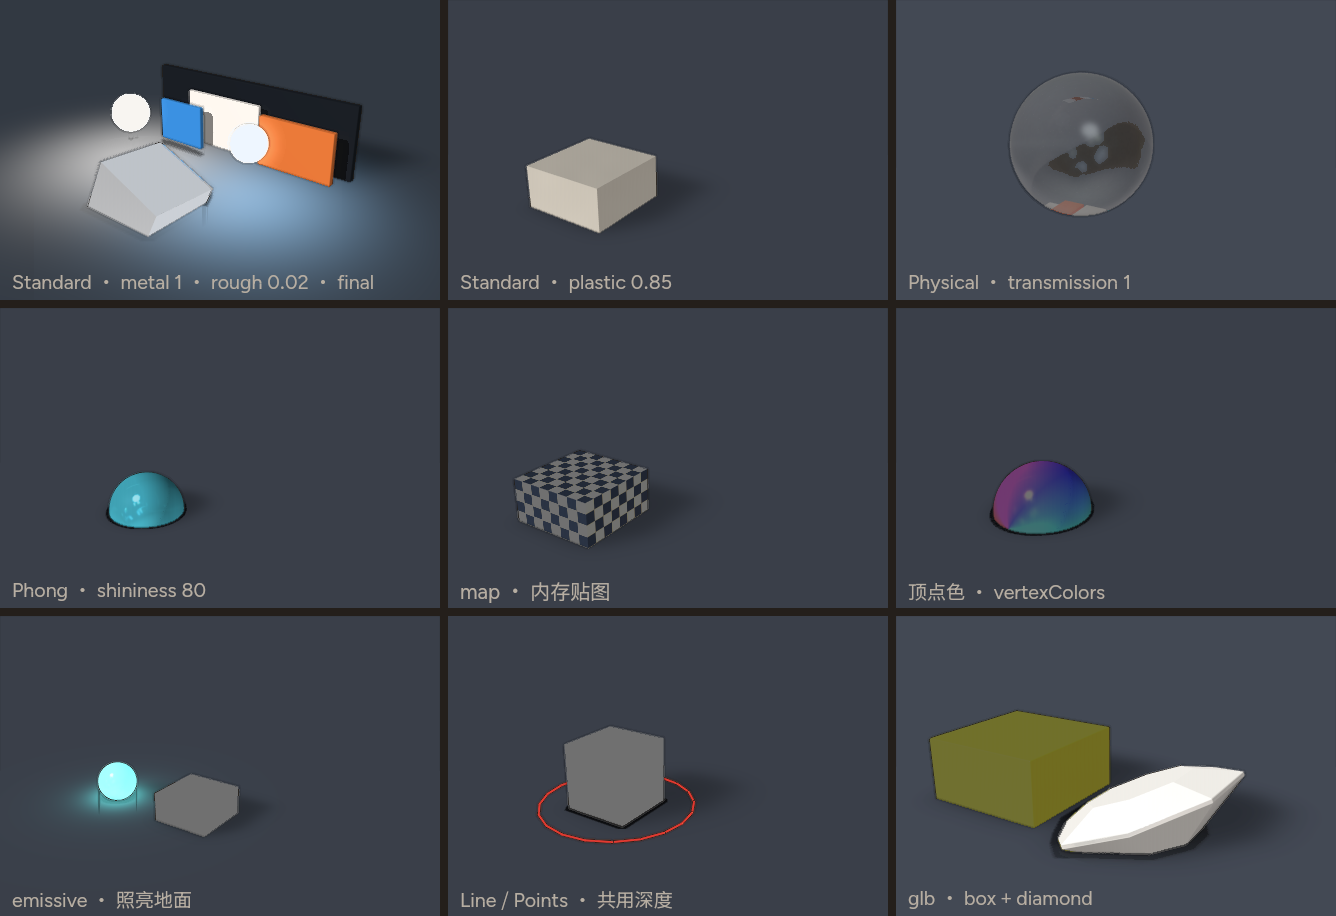
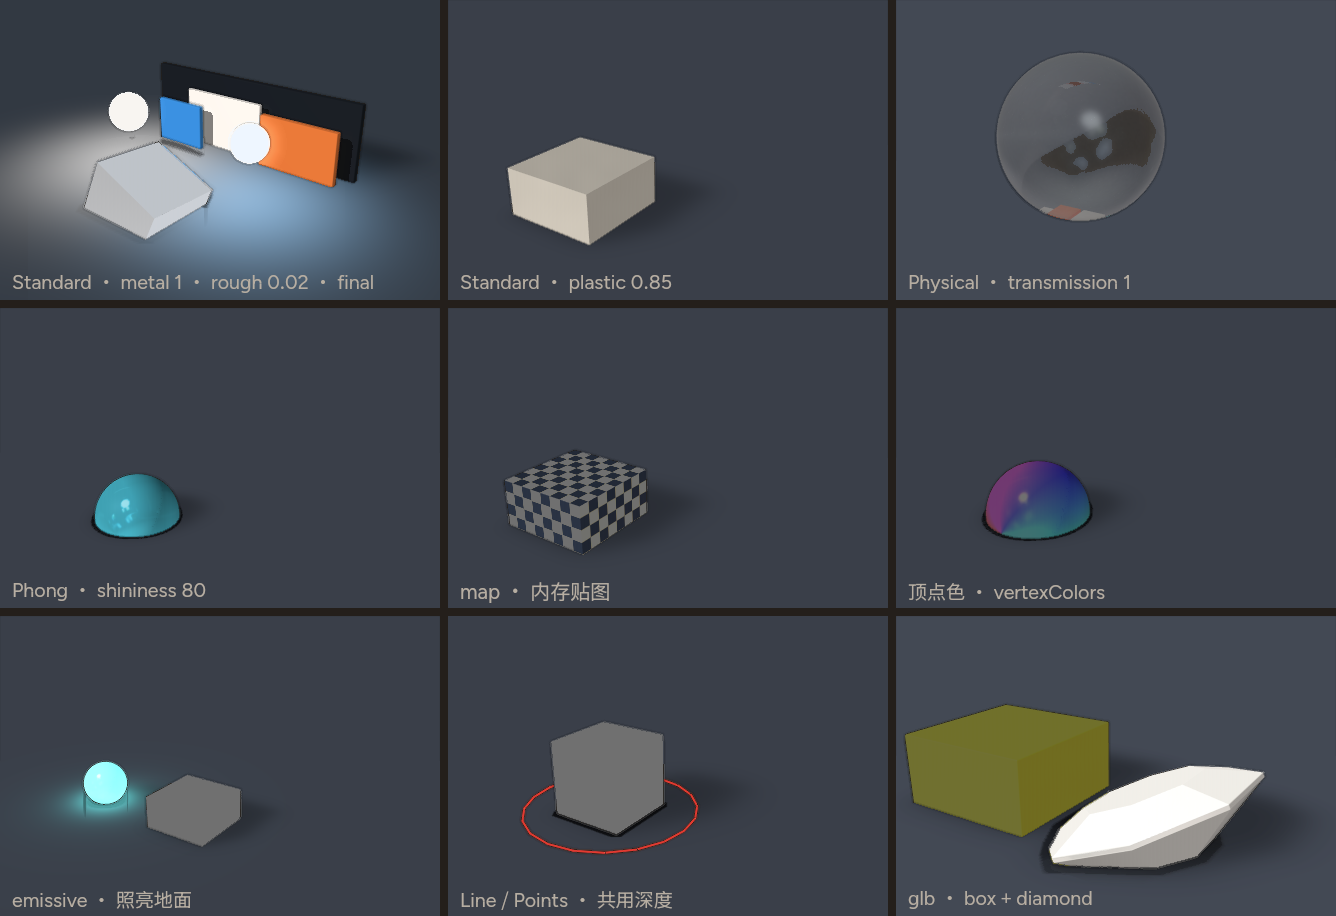
tip modelfill: closer model-cell cameras for A fill
Pull common cells to distance 780, enlarge physical-glass and glb.
Leave twosphere materials untouched (B materials 7).

diff --git a/docs/gallery/3d/model/physical-glass.tsx b/docs/gallery/3d/model/physical-glass.tsx
@@ -38,7 +38,7 @@ export default layer.create(
     <layer
       width={440}
       height={300}
-      camera="fov 30, orbit 28 18, distance 740, at 220 175 0"
+      camera="fov 30, orbit 28 18, distance 680, at 220 175 0"
       light="world"
       quality="final"
     >
@@ -50,7 +50,7 @@ export default layer.create(
         <model object={stripe('#d94a3a', -0.4)} unit={110} x={200} y={190} />
         <model object={stripe('#f4f0e8', -0.1)} unit={110} x={200} y={190} />
         <model object={stripe('#3a7ec8', 0.2)} unit={110} x={200} y={190} />
-        <model object={glass} unit={148} x={200} y={190} material="glass 0.08" />
+        <model object={glass} unit={158} x={200} y={190} material="glass 0.08" />
       </layer>
     </layer>
     <layer x={12} y={272}>

diff --git a/docs/gallery/3d/model/glb.tsx b/docs/gallery/3d/model/glb.tsx
@@ -14,7 +14,7 @@ import { layer } from 'flexlayer'
 export default layer.create(
   <layer width={440} height={300} background="#241f1b">
     {/* Metshine: yawback A called the diamond coarse — closer + larger diamond. */}
-    <layer width={440} height={300} camera="fov 30, orbit 32 20, distance 780, at 220 205 0" light="world">
+    <layer width={440} height={300} camera="fov 30, orbit 32 20, distance 700, at 220 205 0" light="world">
       <light type="hemisphere" intensity="0.4" color="#e8eef4" ground-color="#3a4048" />
       <light type="directional" intensity="0.7" color="#ffffff" x="-160" y="-380" z="480" target="0 0 0" />
       <ground y={220} rotateX={90} fill="#3a3f49" shadow-blur={48} shadow-opacity={0.28} />

diff --git a/docs/gallery/3d/model/map.tsx b/docs/gallery/3d/model/map.tsx
@@ -31,7 +31,7 @@ const mesh = new THREE.Mesh(
 
 export default layer.create(
   <layer width={440} height={300} background="#241f1b">
-    <layer width={440} height={300} camera="fov 32, orbit 34 22, distance 860, at 220 210 0">
+    <layer width={440} height={300} camera="fov 32, orbit 34 22, distance 820, at 220 210 0">
       <ground y={220} rotateX={90} fill="#3a3f49" shadow-blur={48} shadow-opacity={0.28} />
       <layer x={28} y={220} width={400} height={190} origin="200 0" rotateX={90} preserve-3d>
         <model object={mesh} unit={120} x={200} y={210} />

diff --git a/docs/gallery/3d/model/standard-rough.tsx b/docs/gallery/3d/model/standard-rough.tsx
@@ -11,7 +11,7 @@ const mesh = new THREE.Mesh(
 
 export default layer.create(
   <layer width={440} height={300} background="#241f1b">
-    <layer width={440} height={300} camera="fov 32, orbit 34 22, distance 860, at 220 210 0">
+    <layer width={440} height={300} camera="fov 32, orbit 34 22, distance 780, at 220 210 0">
       <ground y={220} rotateX={90} fill="#3a3f49" shadow-blur={48} shadow-opacity={0.28} />
       <layer x={28} y={220} width={400} height={190} origin="200 0" rotateX={90} preserve-3d>
         <model object={mesh} unit={120} x={200} y={190} />

diff --git a/docs/gallery/3d/model/vertex-colors.tsx b/docs/gallery/3d/model/vertex-colors.tsx
@@ -37,7 +37,7 @@ const mesh = new THREE.Mesh(
 
 export default layer.create(
   <layer width={440} height={300} background="#241f1b">
-    <layer width={440} height={300} camera="fov 32, orbit 34 22, distance 860, at 220 210 0">
+    <layer width={440} height={300} camera="fov 32, orbit 34 22, distance 820, at 220 210 0">
       <ground y={220} rotateX={90} fill="#3a3f49" shadow-blur={48} shadow-opacity={0.28} />
       <layer x={28} y={220} width={400} height={190} origin="200 0" rotateX={90} preserve-3d>
         <model object={mesh} unit={120} x={200} y={190} />

diff --git a/docs/gallery/3d/model/emissive.tsx b/docs/gallery/3d/model/emissive.tsx
@@ -32,7 +32,7 @@ box.position.set(0.7, 0.5, 0)
 
 export default layer.create(
   <layer width={440} height={300} background="#241f1b">
-    <layer width={440} height={300} camera="fov 32, orbit 34 22, distance 860, at 220 210 0">
+    <layer width={440} height={300} camera="fov 32, orbit 34 22, distance 780, at 220 210 0">
       <ground y={220} rotateX={90} fill="#3a3f49" shadow-blur={48} shadow-opacity={0.28} />
       <layer x={28} y={220} width={400} height={190} origin="200 0" rotateX={90} preserve-3d>
         <model object={box} unit={80} x={200} y={190} />

diff --git a/docs/gallery/3d/model/lines-points.tsx b/docs/gallery/3d/model/lines-points.tsx
@@ -52,7 +52,7 @@ group.add(box, ring, dots)
 
 export default layer.create(
   <layer width={440} height={300} background="#241f1b">
-    <layer width={440} height={300} camera="fov 32, orbit 34 22, distance 860, at 220 210 0">
+    <layer width={440} height={300} camera="fov 32, orbit 34 22, distance 780, at 220 210 0">
       <ground y={220} rotateX={90} fill="#3a3f49" shadow-blur={48} shadow-opacity={0.28} />
       <layer x={28} y={220} width={400} height={190} origin="200 0" rotateX={90} preserve-3d>
         <model object={group} unit={120} x={200} y={190} />

diff --git a/docs/gallery/3d/model/phong.tsx b/docs/gallery/3d/model/phong.tsx
@@ -12,7 +12,7 @@ const mesh = new THREE.Mesh(
 
 export default layer.create(
   <layer width={440} height={300} background="#241f1b">
-    <layer width={440} height={300} camera="fov 32, orbit 34 22, distance 860, at 220 210 0">
+    <layer width={440} height={300} camera="fov 32, orbit 34 22, distance 780, at 220 210 0">
       <ground y={220} rotateX={90} fill="#3a3f49" shadow-blur={48} shadow-opacity={0.28} />
       <layer x={28} y={220} width={400} height={190} origin="200 0" rotateX={90} preserve-3d>
         <model object={mesh} unit={92} x={200} y={190} />

diff --git a/docs/gallery/3d/model/cell.tsx b/docs/gallery/3d/model/cell.tsx
@@ -12,7 +12,7 @@ import * as THREE from 'three'
  * model y up, so `y` is the floor line and the geometry rises from y=0 in its
  * own space: every mesh here is built from its base upward.
  */
-export const CAMERA = 'fov 32, orbit 34 22, distance 860, at 220 210 0'
+export const CAMERA = 'fov 32, orbit 34 22, distance 780, at 220 210 0'
 export const FLOOR = 220
 
 export function cell(body: JSX.Element, caption: string) {

diff --git a/docs/gallery/3d/model/standard-metal.tsx b/docs/gallery/3d/model/standard-metal.tsx
@@ -18,7 +18,7 @@ export default layer.create(
     <layer
       width={440}
       height={300}
-      camera="fov 34, orbit 38 24, distance 870, at 220 198 0"
+      camera="fov 34, orbit 38 24, distance 850, at 220 198 0"
       light="world"
       quality="final"
     >
